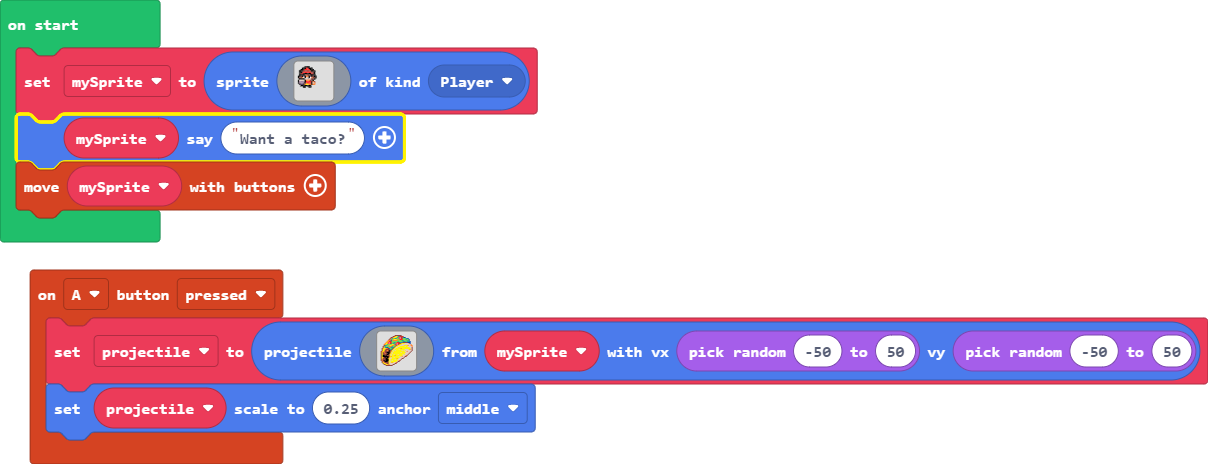
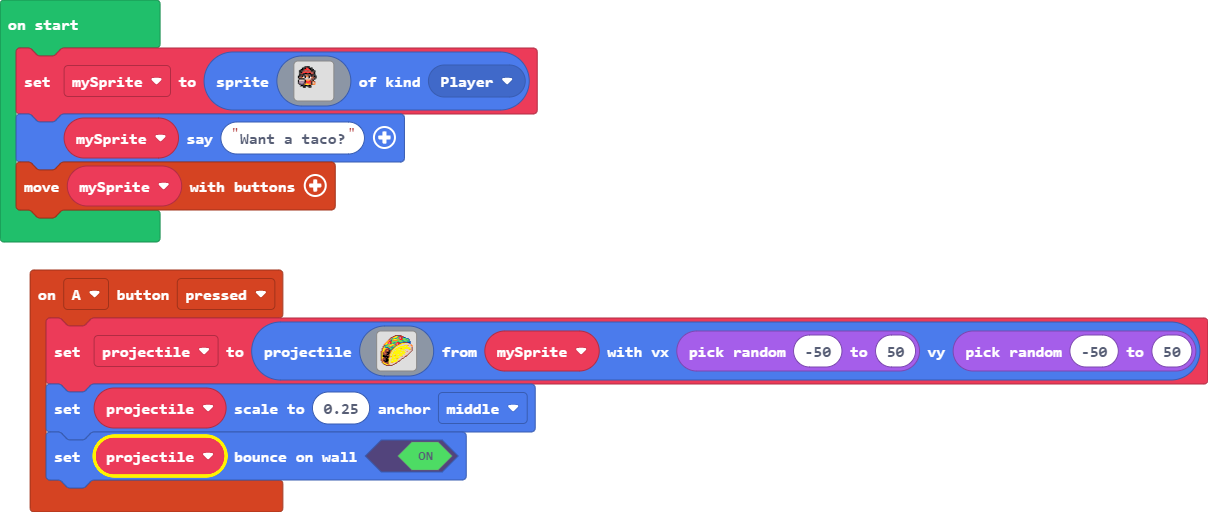
Update main.blocks, main.ts

Changed region(s): [[0.0, 0.0905, 1.0, 0.9655], [0.0, 0.0302, 0.0613, 0.0603]]

diff --git a/main.ts b/main.ts
@@ -34,6 +34,7 @@ controller.A.onEvent(ControllerButtonEvent.Pressed, function () {
         ................................
         `, mySprite, randint(-50, 50), randint(-50, 50))
     projectile.setScale(0.25, ScaleAnchor.Middle)
+    projectile.setBounceOnWall(true)
 })
 let projectile: Sprite = null
 let mySprite: Sprite = null
